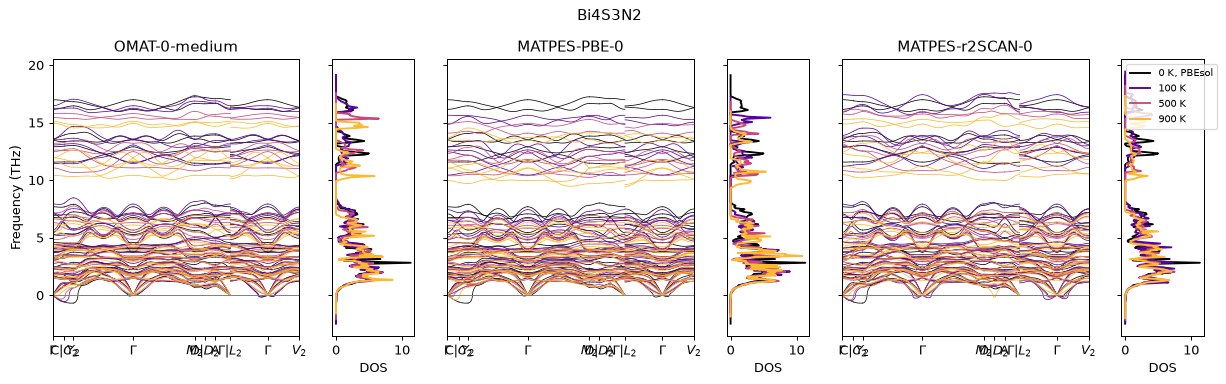
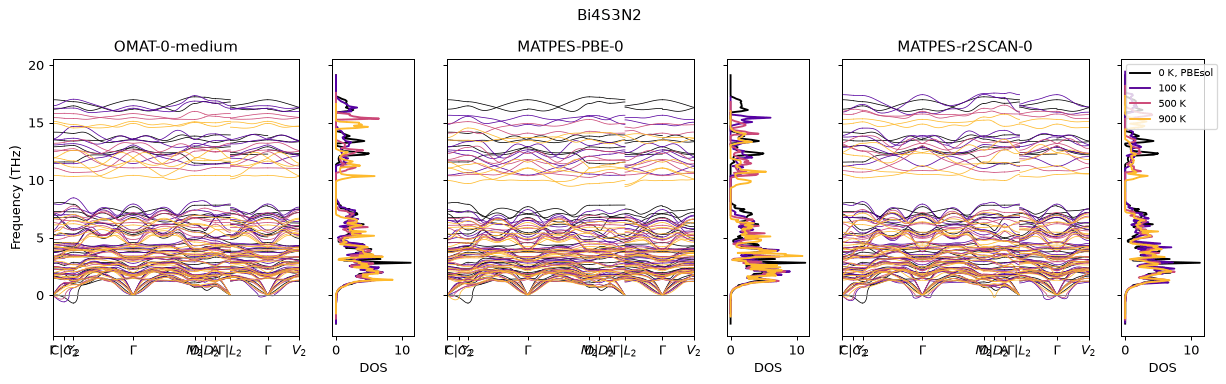
Add the Born charge correction to the 0 K bands of Bi4S3N2 rebuilt from MP force constants

diff --git a/docs/user/codes/vasp.md b/docs/user/codes/vasp.md
@@ -399,7 +399,7 @@ Both can be requested in one run.
 If the cross-validated LASSO penalty lands on either end of the search, `10**anhar_alpha_min` or pheasy's `1e-2`, a warning is raised.
 The harmonic and anharmonic LASSO fits are seeded, so that repeated runs give the same force constants.
 Both fits also run to a LASSO tolerance of `1e-8`, tighter than pheasy's default of `1e-4`, since the default leaves the fit unconverged and refits on different machines then differ.
-Harmonic force constants from earlier atomate2 versions can therefore differ slightly.
+Harmonic force constants from earlier atomate2 versions can therefore differ, mostly in soft low-frequency modes.
 The anharmonic force constants are written to files in the job folder and are not stored in the output document.
 
 #### hiPhive
